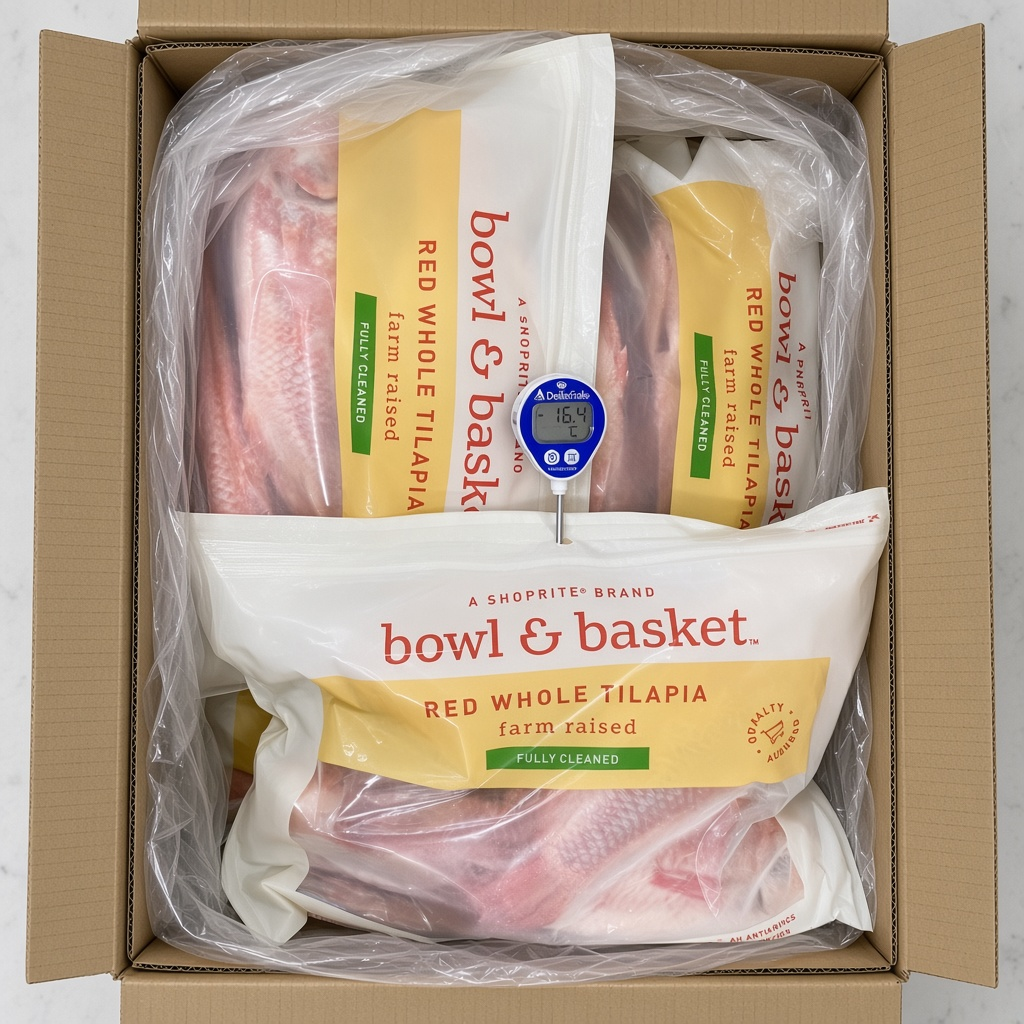
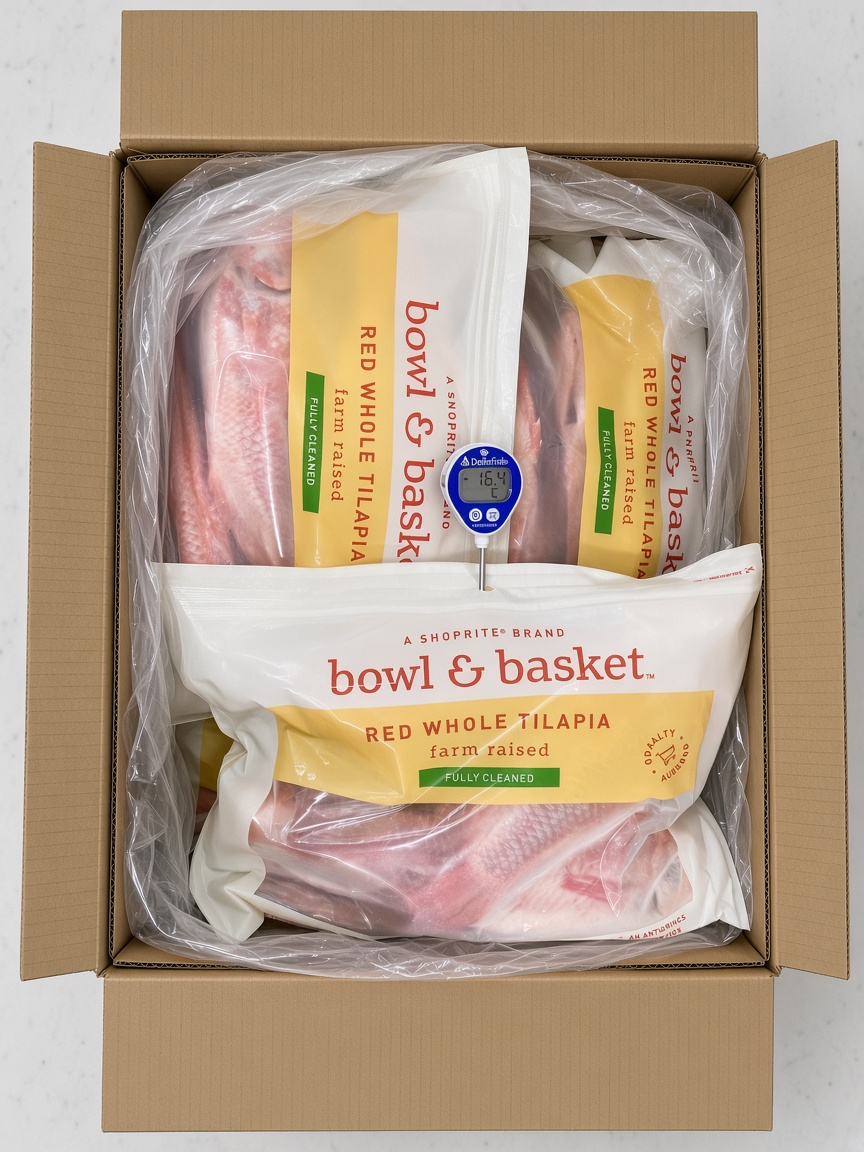
Show a vertical bulk carton, keep the red fish product photo, and stick packing beside the form.

diff --git a/index.html b/index.html
@@ -18,7 +18,7 @@
       href="https://fonts.googleapis.com/css2?family=Fraunces:opsz,wght@9..144,500;9..144,700&family=Manrope:wght@400;500;600;700&family=Noto+Sans+SC:wght@400;500;700&display=swap"
       rel="stylesheet"
     />
-    <link rel="stylesheet" href="css/styles.css?v=oct18" />
+    <link rel="stylesheet" href="css/styles.css?v=oct19" />
   </head>
   <body>
     <div class="sea" aria-hidden="true">
@@ -239,10 +239,6 @@
               <figcaption data-i18n="productPreview"></figcaption>
               <div class="frame-body" id="configArt"></div>
             </figure>
-            <figure class="photo-frame" id="packFrame">
-              <figcaption data-i18n="packPreview"></figcaption>
-              <div class="frame-body" id="packArt"></div>
-            </figure>
           </div>
           <div>
             <h2 id="configTitle"></h2>
@@ -251,6 +247,7 @@
             <p class="note" id="shipHint" hidden></p>
           </div>
         </div>
+        <div class="config-body" id="configBody">
         <form class="config" id="orderForm">
           <fieldset id="processField" hidden>
             <legend data-i18n="process"></legend>
@@ -327,6 +324,11 @@
           </fieldset>
           <button class="cta" type="submit" data-i18n="reviewOrder"></button>
         </form>
+            <figure class="photo-frame pack-frame--sticky" id="packFrame">
+              <figcaption data-i18n="packPreview"></figcaption>
+              <div class="frame-body" id="packArt"></div>
+            </figure>
+        </div>
       </section>
 
       <section class="stage" id="stage-summary" data-stage="summary">
@@ -347,6 +349,6 @@
       <span data-i18n="footerNote"></span>
     </footer>
 
-    <script src="js/app.js?v=oct18"></script>
+    <script src="js/app.js?v=oct19"></script>
   </body>
 </html>

diff --git a/js/app.js b/js/app.js
@@ -822,7 +822,8 @@ function productPhotoKeys(view) {
   const keys = [];
   if (view.group === "entera") {
     const color = colorFile(view.color);
-    if (view.slot !== "color" && view.option === "congelado") keys.push("entera-congelado");
+    if (view.color === "roja" && view.slot !== "color") keys.push("entera-roja");
+    if (view.slot !== "color" && view.option === "congelado" && view.color !== "roja") keys.push("entera-congelado");
     if (color && view.option && view.process) keys.push(`entera-${color}-${view.option}-${view.process}`);
     if (color && view.option) keys.push(`entera-${color}-${view.option}`);
     if (color) keys.push(`entera-${color}`);
@@ -880,7 +881,7 @@ const PHOTO_FILES = new Set([
 ]);
 
 function mediaBox(folder, keys, fallback) {
-  const bust = "oct18";
+  const bust = "oct19";
   const srcs = [];
   for (const key of keys) {
     [".jpg", ".jpeg", ".png", ".webp"].forEach((ext) => {
@@ -1006,6 +1007,8 @@ function updateMediaFrames() {
   const productFrame = $("#productFrame");
   const showPack = Boolean(GROUPS[view.group]?.packPrimary);
   if (packFrame) packFrame.hidden = !showPack;
+  const configBody = $("#configBody");
+  if (configBody) configBody.classList.toggle("config-body--pack", showPack);
   if (productFrame) productFrame.classList.toggle("photo-frame--tall", view.group === "subproductos");
   if ($("#packArt") && showPack) $("#packArt").innerHTML = packMedia(view);
 }

diff --git a/css/styles.css b/css/styles.css
@@ -742,15 +742,39 @@ html.is-zh h3 {
   object-position: center;
 }
 
+.config-body {
+  display: grid;
+  grid-template-columns: 1fr;
+  gap: 18px;
+  align-items: start;
+}
+
+.config-body--pack {
+  grid-template-columns: minmax(0, 1fr) minmax(220px, 280px);
+}
+
+.pack-frame--sticky {
+  position: sticky;
+  top: 16px;
+  align-self: start;
+}
+
 #packFrame .frame-body {
-  min-height: 220px;
-  padding: 6px 10px 12px;
+  min-height: 0;
+  padding: 8px 10px 12px;
+}
+
+#packFrame .frame-body .media {
+  width: 100%;
 }
 
 #packFrame .frame-body .photo {
-  height: auto;
-  max-height: 320px;
   width: 100%;
+  height: auto;
+  max-height: min(68vh, 560px);
+  aspect-ratio: 3 / 4;
+  object-fit: contain;
+  object-position: center;
 }
 
 .photo-frame--tall .frame-body {
@@ -1006,8 +1030,20 @@ footer {
   .cards-2,
   .grid-2,
   .config-hero,
+  .config-body,
+  .config-body--pack,
   .ticket dl {
     grid-template-columns: 1fr;
+  }
+
+  #packFrame {
+    order: -1;
+    z-index: 4;
+    top: 8px;
+  }
+
+  #packFrame .frame-body .photo {
+    max-height: 42vh;
   }
 
   .topbar .company {
